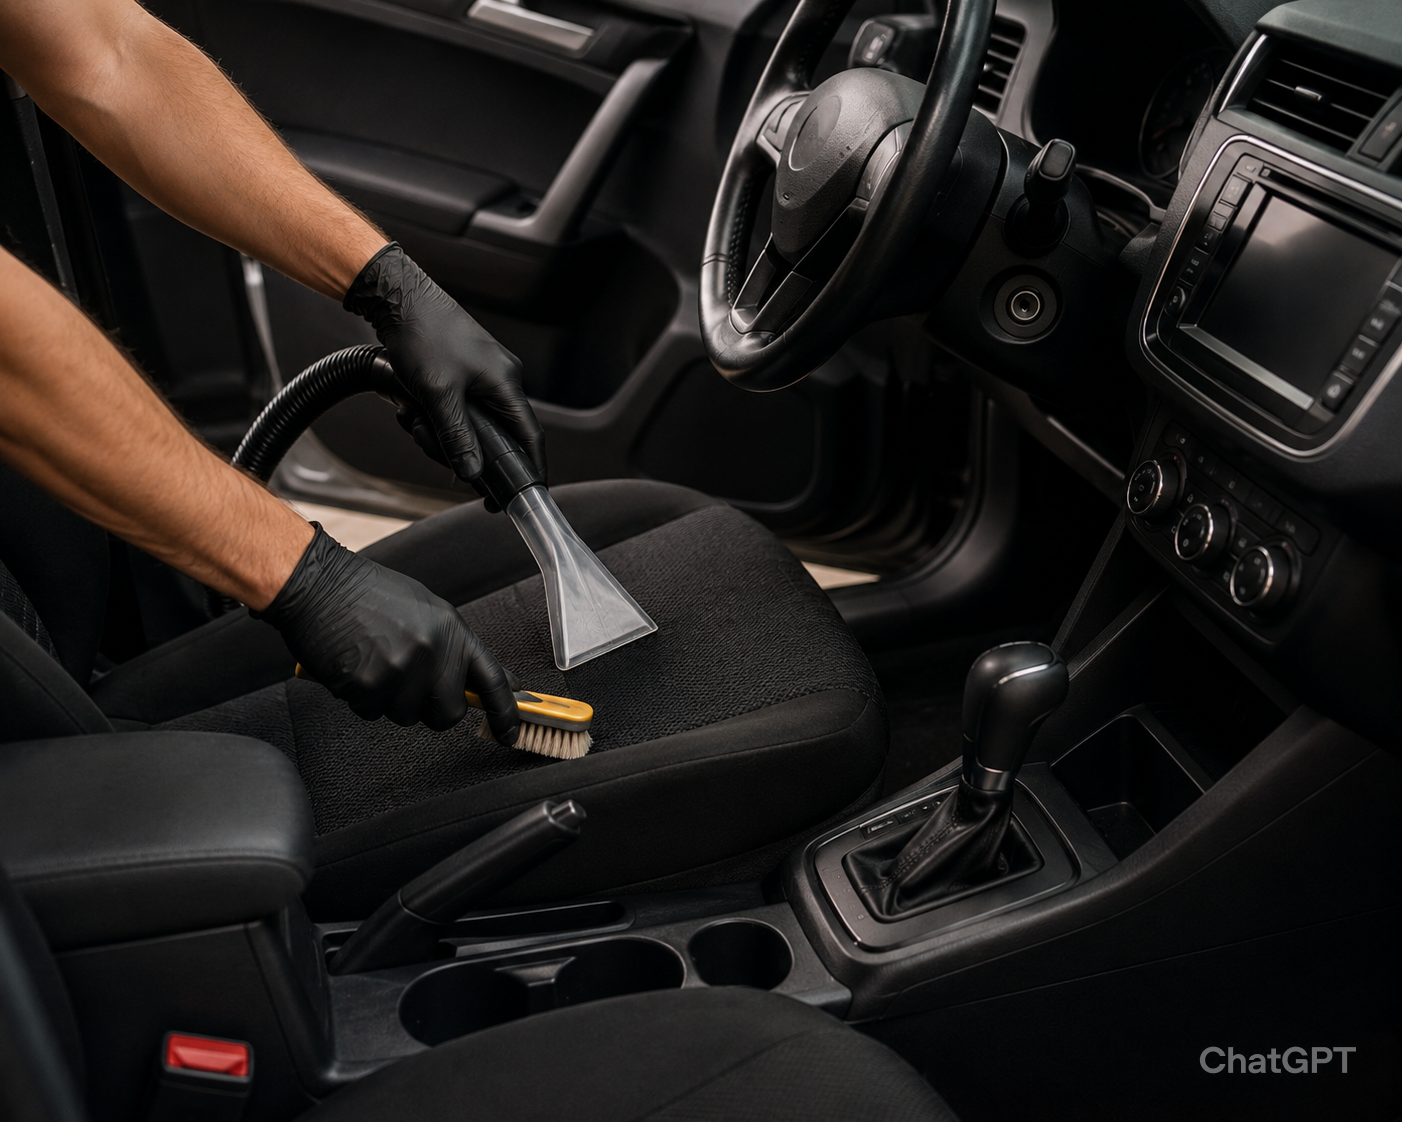
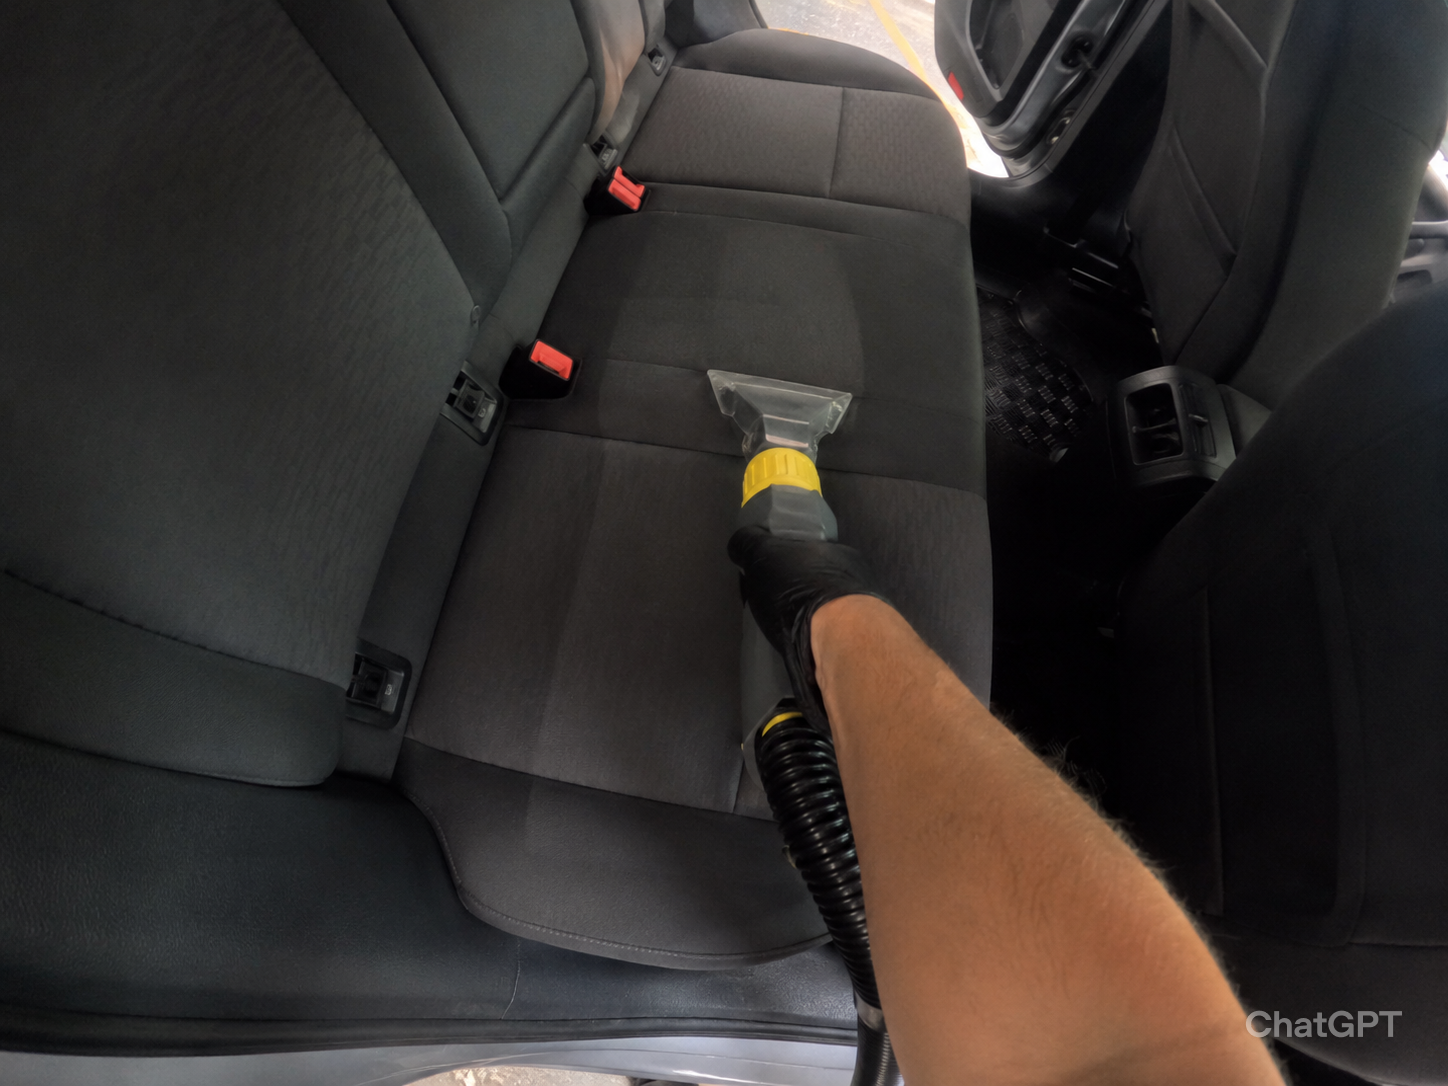
alterei imagens

diff --git a/index.html b/index.html
@@ -76,7 +76,7 @@
       <!-- Higienização -->
       <div class="card-feat md:col-span-8 relative min-h-[400px]">
         <img src="imagens/higienizacao.png" class="w-full h-full object-cover opacity-60" alt="Higienização detalhada">
-        <div class="absolute inset-0 bg-gradient-to-t from-[#121414] via-[#121414]/80 to-transparent"></div>
+        <div class="absolute inset-0 bg-gradient-to-t from-[#121414] via-[#121414]/10 to-transparent"></div>
         <div class="absolute bottom-0 left-0 p-8 w-full">
           <div class="badge-primary mb-4">Mais Procurado</div>
           <h3 class="font-mont text-2xl font-black text-[#e2e2e2] uppercase mb-2">Lavagem de Estofados</h3>